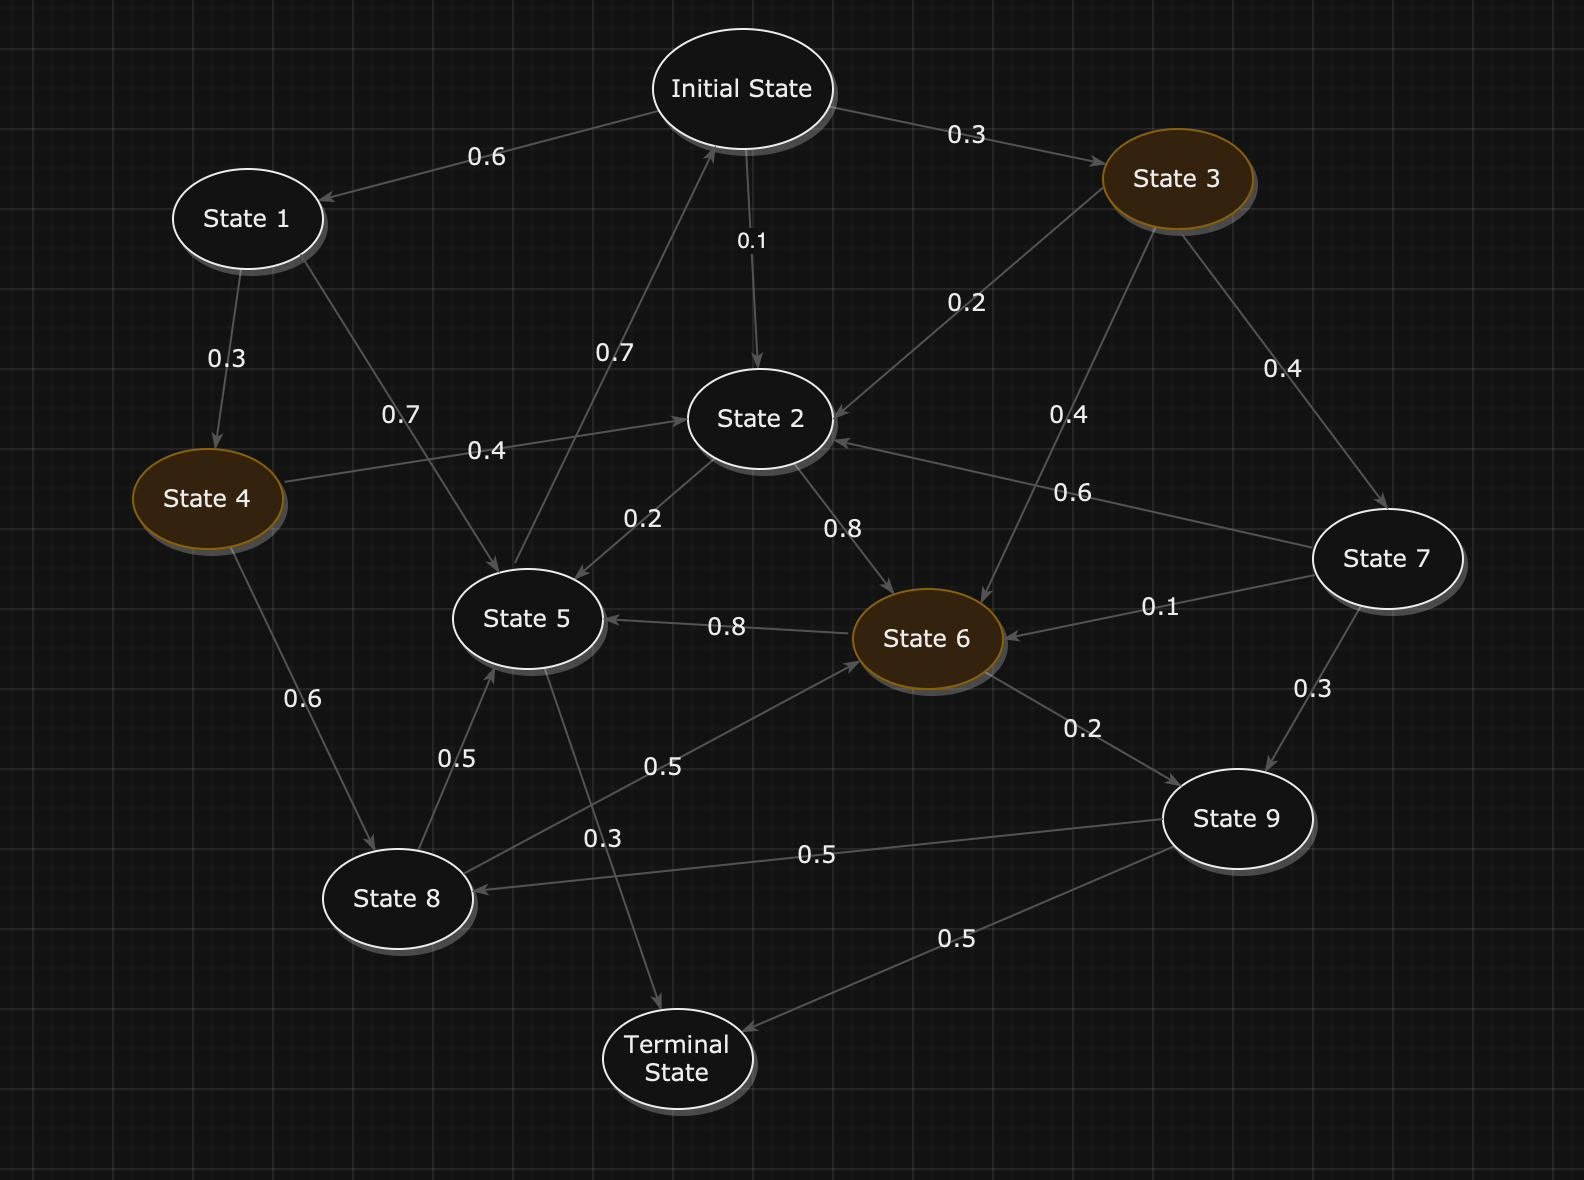
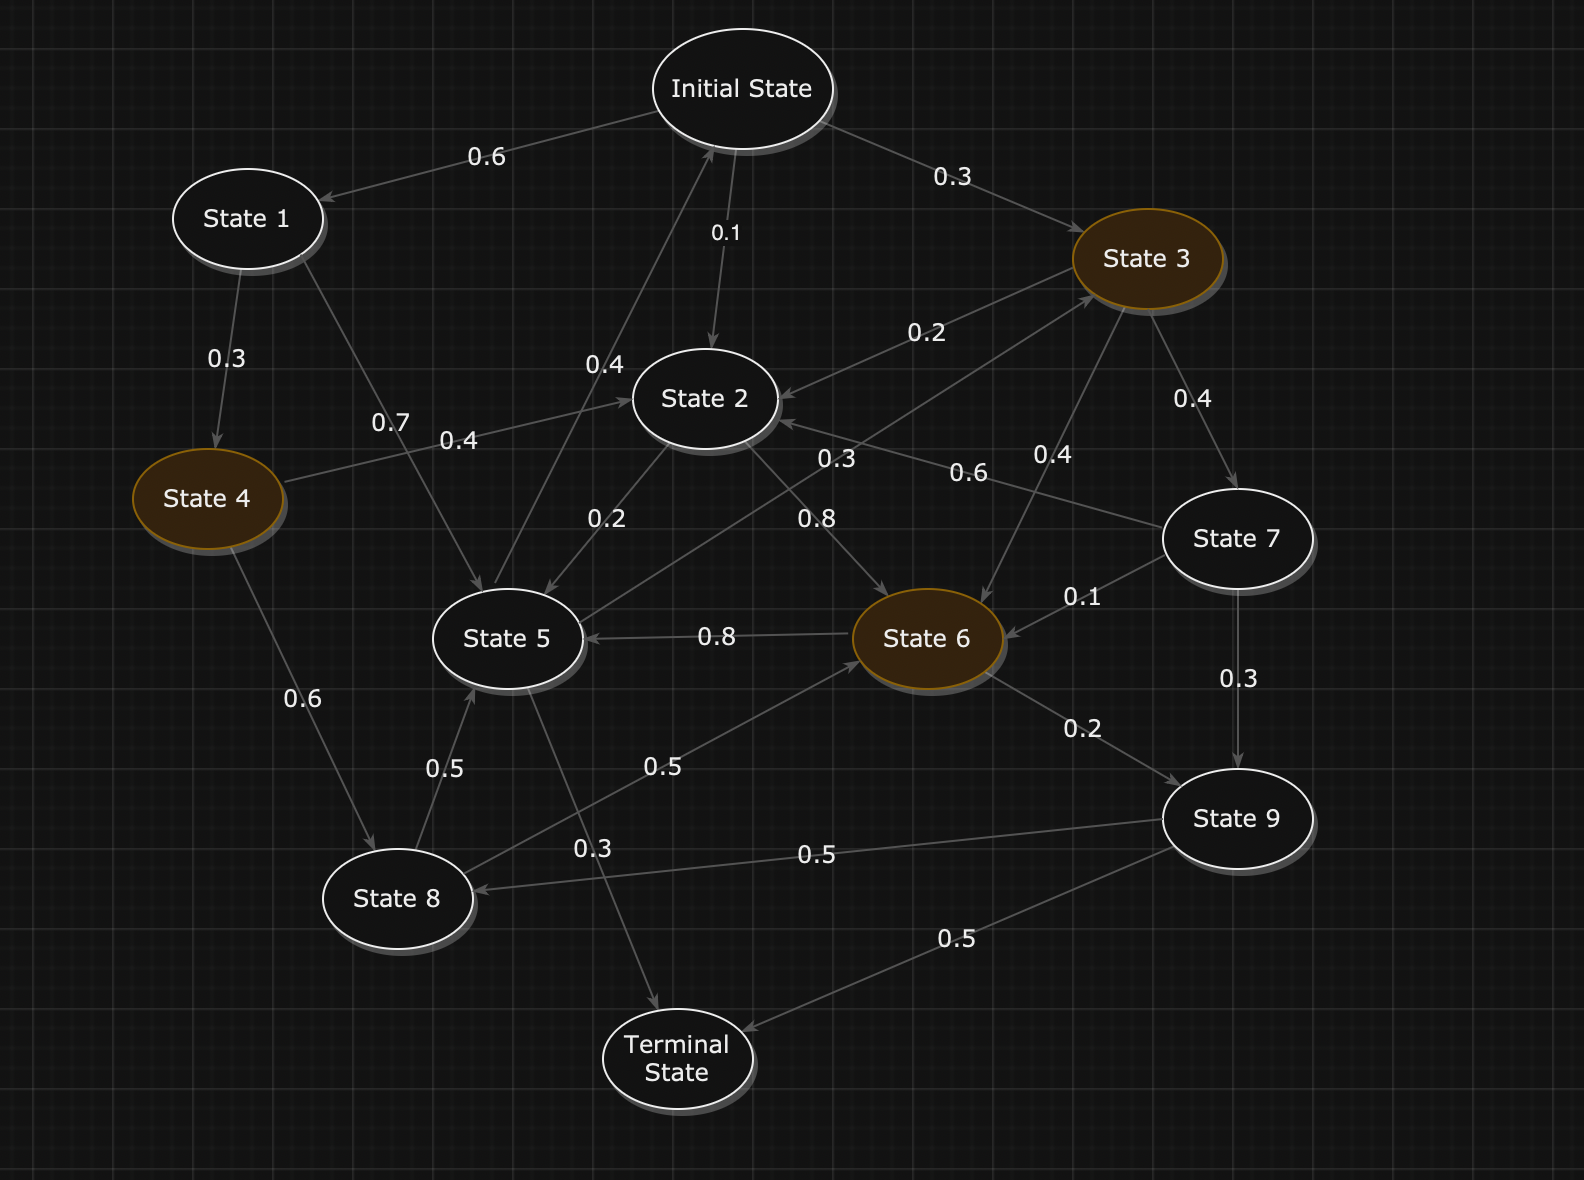
updated stm

diff --git a/Assignment 2/TreasureMDP.py b/Assignment 2/TreasureMDP.py
@@ -13,7 +13,7 @@ STM =  [[0.0, 0.6, 0.1, 0.3, 0.0, 0.0, 0.0, 0.0, 0.0, 0.0, 0.0] ,
         [0.0, 0.0, 0.0, 0.0, 0.0, 0.2, 0.8, 0.0, 0.0, 0.0, 0.0] ,
         [0.0, 0.0, 0.2, 0.0, 0.0, 0.0, 0.4, 0.4, 0.0, 0.0, 0.0] ,
         [0.0, 0.0, 0.4, 0.0, 0.0, 0.0, 0.0, 0.0, 0.6, 0.0, 0.0] ,
-        [0.7, 0.0, 0.0, 0.0, 0.0, 0.0, 0.0, 0.0, 0.0, 0.0, 0.3] ,
+        [0.4, 0.0, 0.0, 0.3, 0.0, 0.0, 0.0, 0.0, 0.0, 0.0, 0.3] ,
         [0.0, 0.0, 0.0, 0.0, 0.0, 0.8, 0.0, 0.0, 0.0, 0.2, 0.0] ,
         [0.0, 0.0, 0.6, 0.0, 0.0, 0.0, 0.1, 0.0, 0.0, 0.3, 0.0] ,
         [0.0, 0.0, 0.0, 0.0, 0.0, 0.5, 0.5, 0.0, 0.0, 0.0, 0.0] ,
@@ -33,8 +33,7 @@ class Agent():
     
     def act(self):
         
-        moved = True
-        # totalReward = 0
+        moved = True 
         self.timeStep += 1
 
         # Determine action: Dig or Move
@@ -64,8 +63,7 @@ class Agent():
                 p += STM[self.loc][i]
 
                 # If prob met, update location
-                if STM[self.loc][i] != 0 and rand_val <= p: 
-                    # print(self.loc ," -> ", i , " | ", p)
+                if STM[self.loc][i] != 0 and rand_val <= p:  
                     self.loc = i
                     break
             
